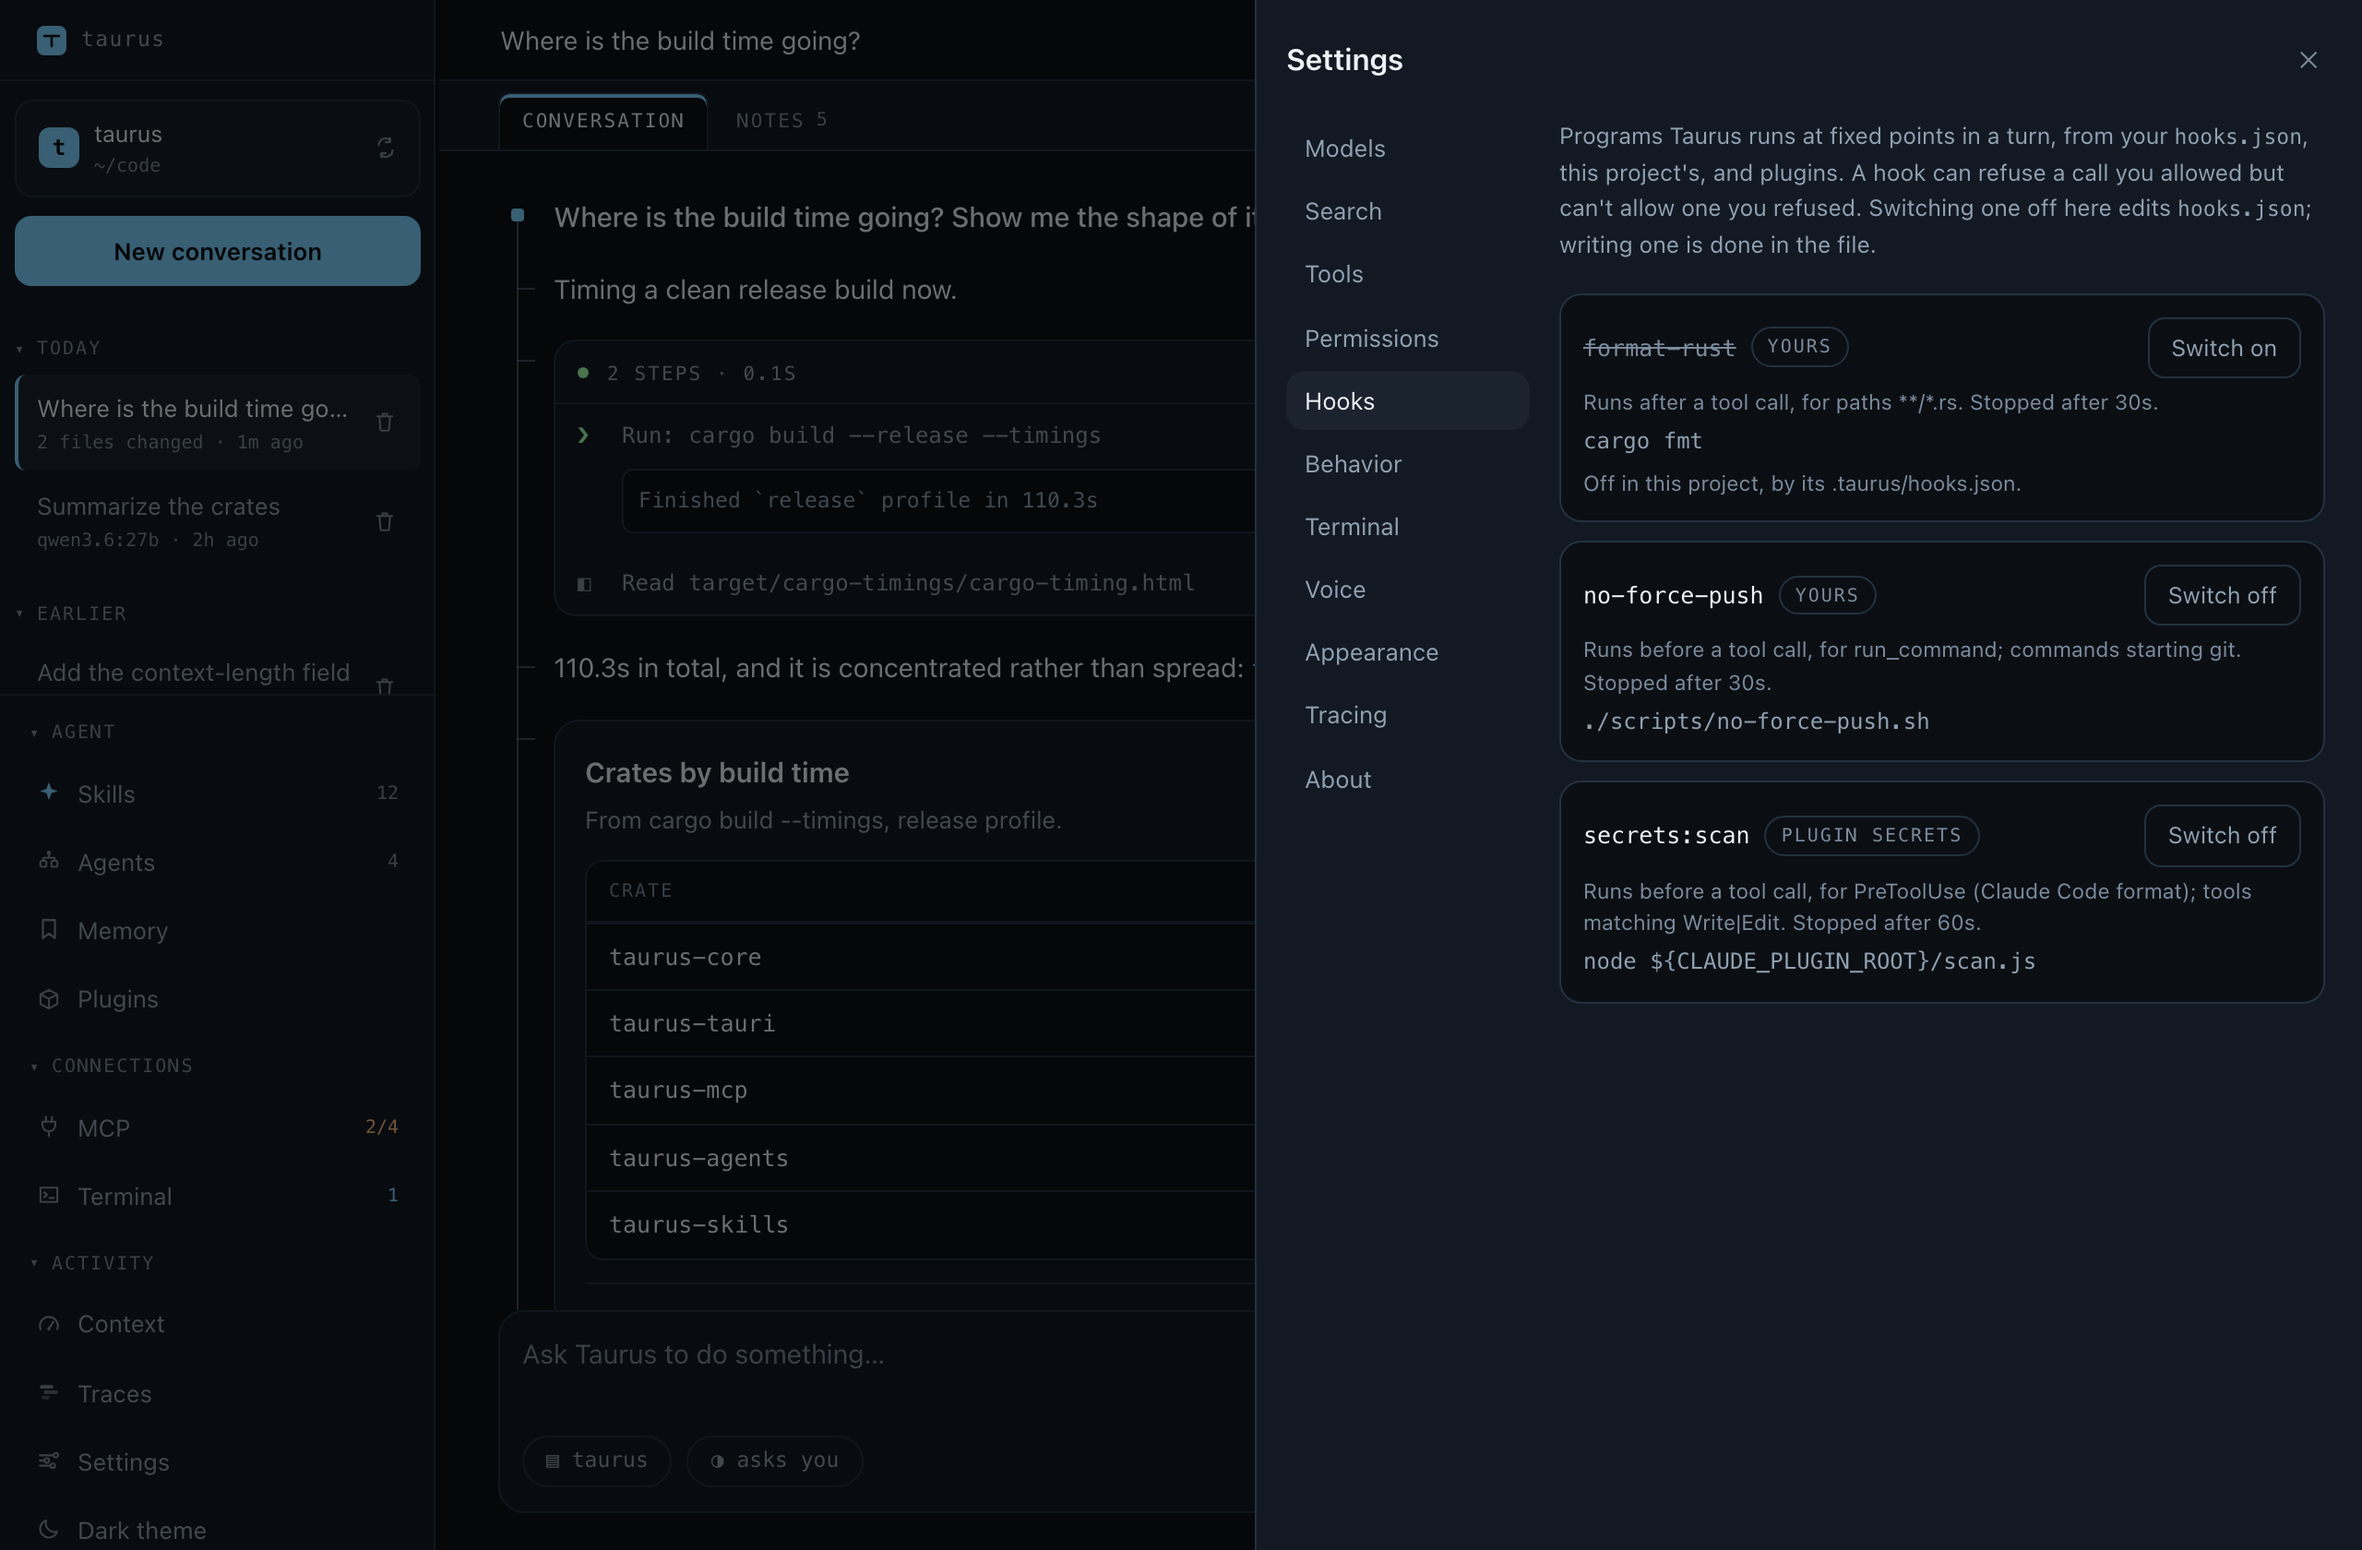
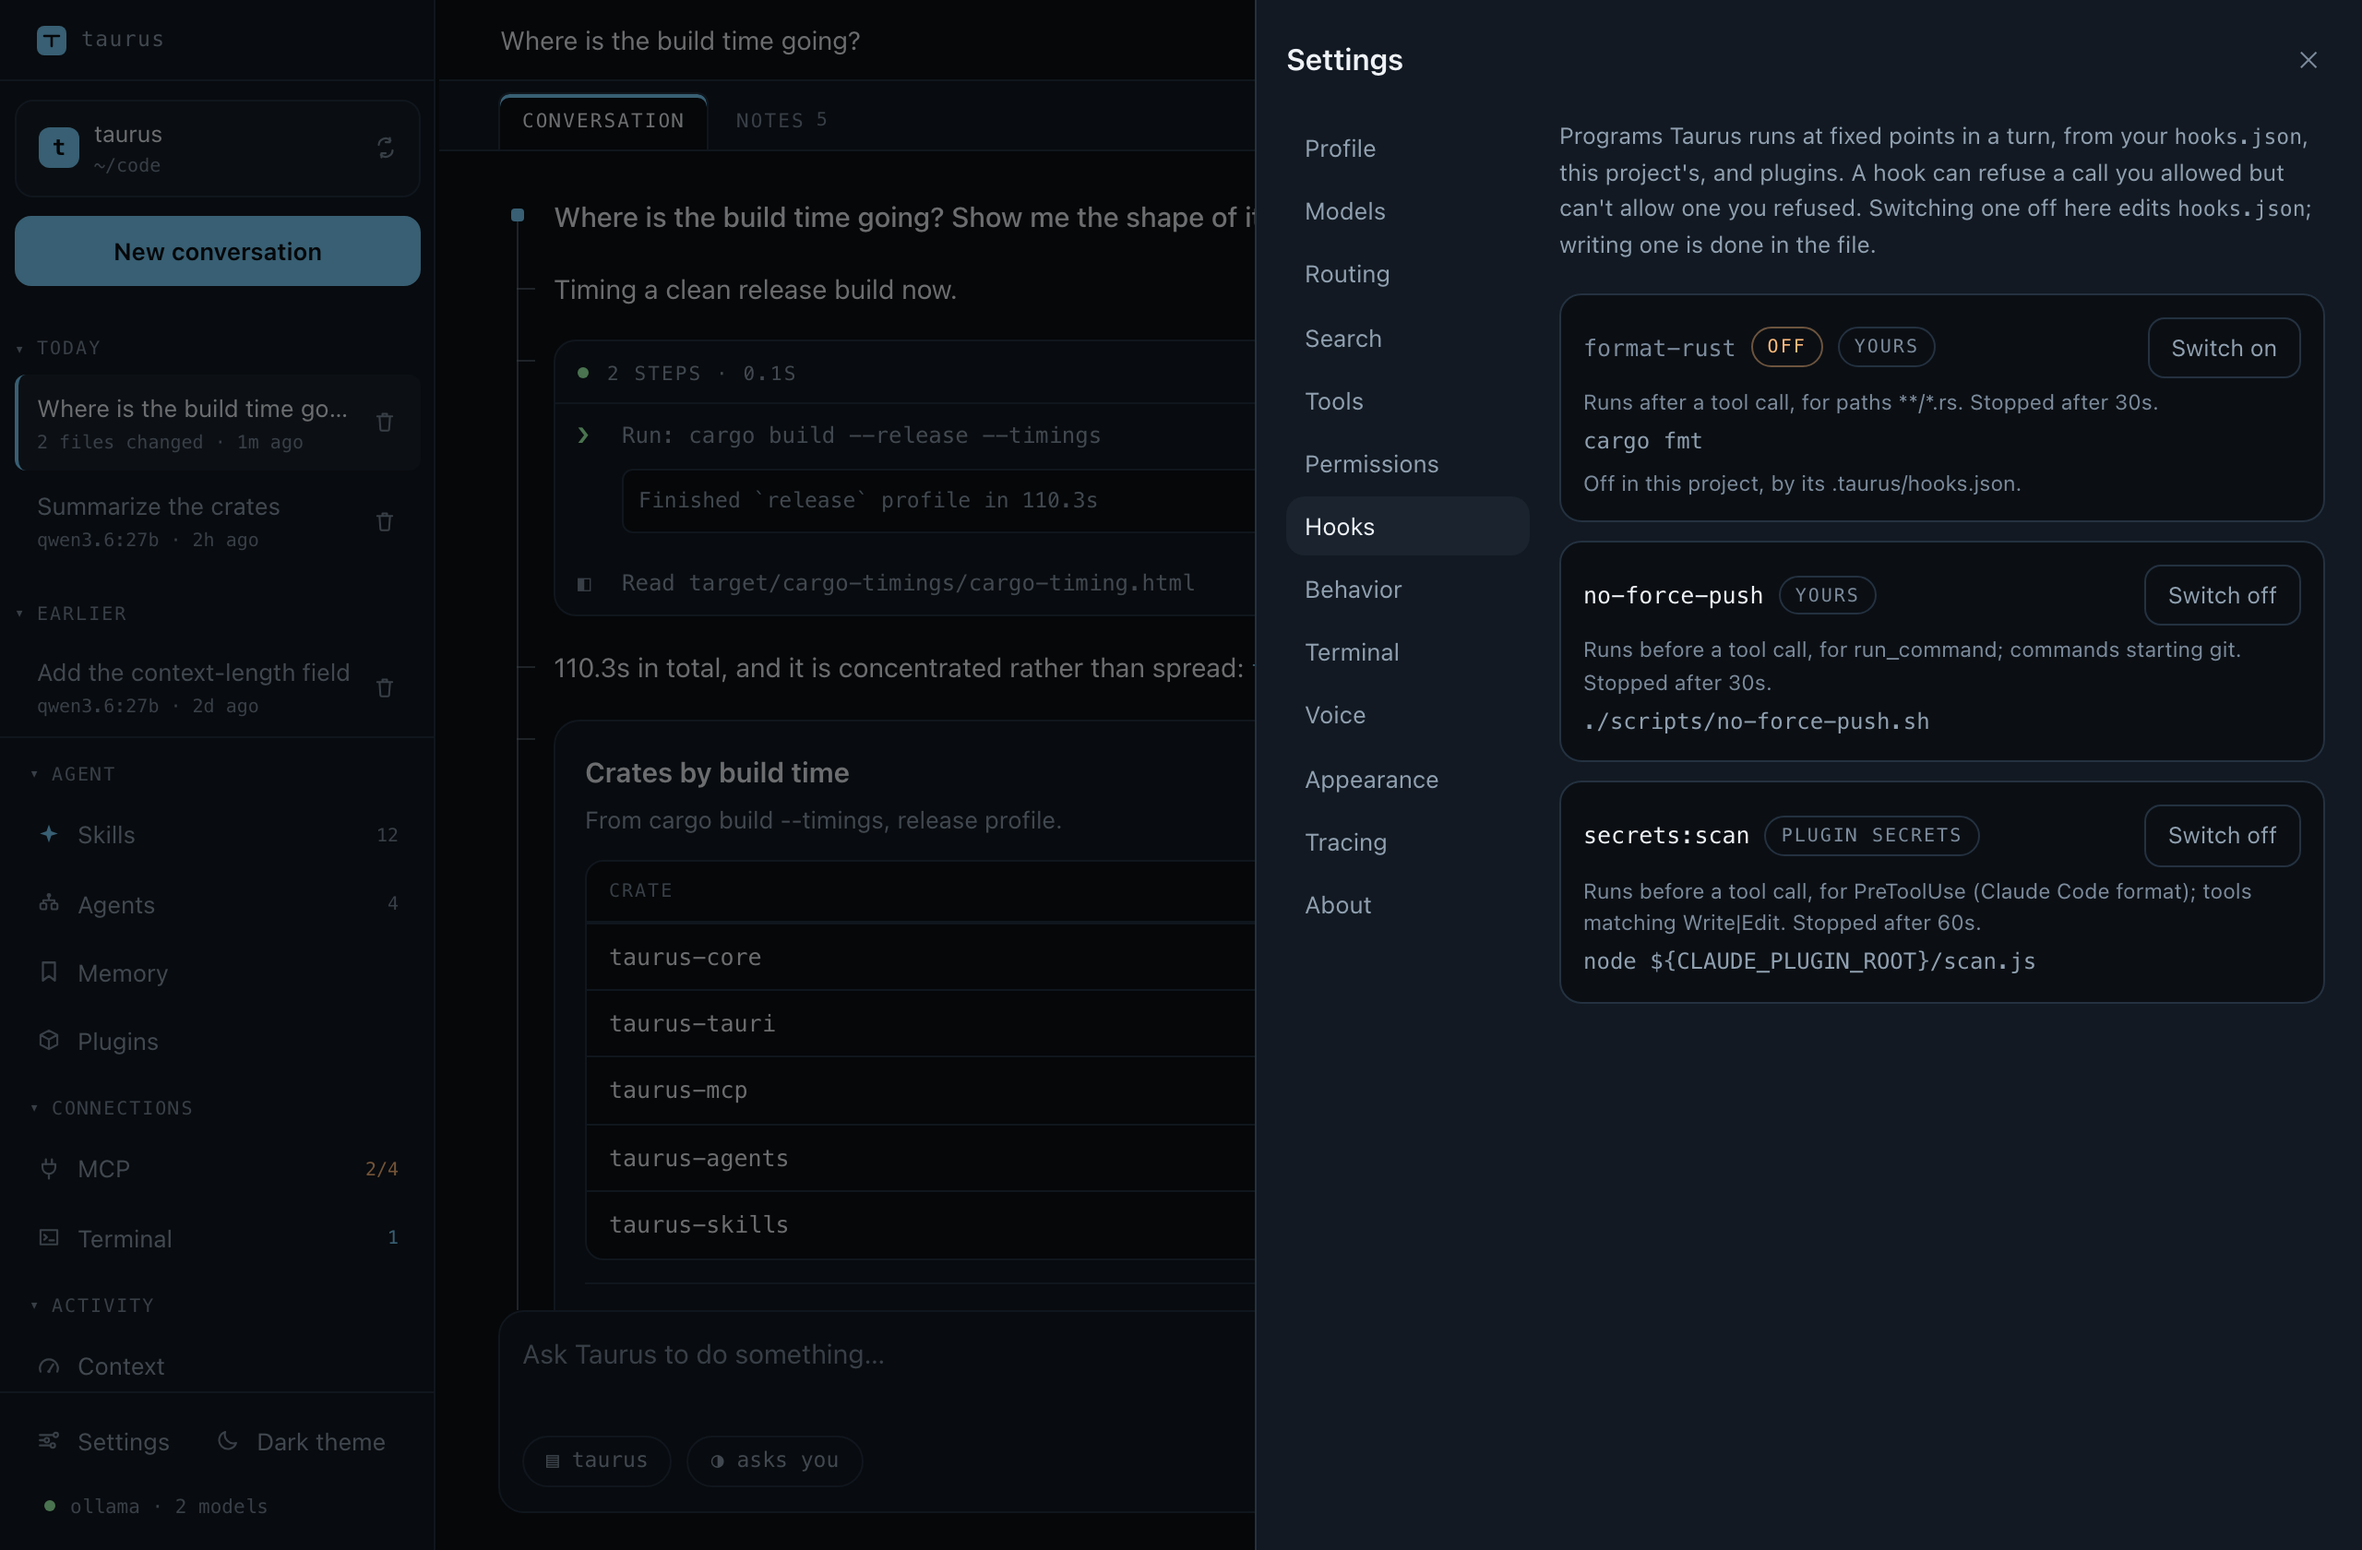
fix: the eight small UI/UX review findings
- Light-theme chart bars keep their tint and gain a full-strength edge
  (5.6:1 on white); filling them to 3:1 left too little between a resting
  bar and the hovered one.
- A connected MCP server says "connected", not only green.
- The Plugins drawer lists what's installed before the add and make forms,
  and reports a refused change under them.
- A skill's compatibility is labeled rather than prefixed with "needs",
  which read "needs Requires Python".
- The editors' plugin save target reads "plugin release", not a bare name.
- The permission dialog drops its preview line when it shows a diff, whose
  head already names the file.
- A switched-off hook is tagged off instead of struck through.
- Settings › Voice files the microphone under "On this machine".

diff --git a/src/components/PluginsDrawer.tsx b/src/components/PluginsDrawer.tsx
@@ -84,31 +84,11 @@ export function PluginsDrawer({
         written.
       </p>
 
-      <AddPlugin
-        disabled={!idle}
-        why={why}
-        adding={working === "add"}
-        onAdd={(from, project, gitRef) =>
-          change("add", () => api.addPlugin(from, project, gitRef))
-        }
-      />
-
-      <NewPlugin
-        disabled={!idle}
-        why={why}
-        making={working === "new"}
-        onMake={(name, description, project) =>
-          change("new", () => api.newPlugin(name, description, project))
-        }
-      />
-
-      {failed && <Problem>{failed}</Problem>}
-
       {plugins === null ? (
         !failed && <p className="drawer-loading">Reading…</p>
       ) : plugins.length === 0 ? (
         <p className="drawer-empty">
-          No plugins installed. Add one from a folder or a git URL above; it
+          No plugins installed. Add one from a folder or a git URL below; it
           goes in <code>~/.taurus/plugins/</code>, or this project's{" "}
           <code>.taurus/plugins/</code>.
         </p>
@@ -202,6 +182,29 @@ export function PluginsDrawer({
           })}
         </ul>
       )}
+
+      {/* Under the list, not above it: what's installed is what you open
+          this drawer to see, and two forms on top pushed it below the fold. */}
+      <AddPlugin
+        disabled={!idle}
+        why={why}
+        adding={working === "add"}
+        onAdd={(from, project, gitRef) =>
+          change("add", () => api.addPlugin(from, project, gitRef))
+        }
+      />
+
+      <NewPlugin
+        disabled={!idle}
+        why={why}
+        making={working === "new"}
+        onMake={(name, description, project) =>
+          change("new", () => api.newPlugin(name, description, project))
+        }
+      />
+
+      {/* Under the forms, beside the button whose change it reports. */}
+      {failed && <Problem>{failed}</Problem>}
     </Drawer>
   );
 }

diff --git a/src/components/PermissionDialog.tsx b/src/components/PermissionDialog.tsx
@@ -102,15 +102,19 @@ export function PermissionDialog({
           </p>
         )}
 
-        <pre className="dialog-detail">
-          {request.effect === "execute" && <span className="prompt">❯ </span>}
-          {request.preview}
-        </pre>
-
         {/* Present only for the two tools that can work out a before and an
-            after. A command line and a URL have none, and the line above is
-            already the whole of what is being approved for those. */}
-        {request.diff && <DiffView diff={request.diff} />}
+            after. A command line and a URL have none, and the preview line is
+            the whole of what is being approved for those. With a diff, its
+            head already names the file and what happens to it, so the
+            preview would only say the path a second time. */}
+        {request.diff ? (
+          <DiffView diff={request.diff} />
+        ) : (
+          <pre className="dialog-detail">
+            {request.effect === "execute" && <span className="prompt">❯ </span>}
+            {request.preview}
+          </pre>
+        )}
 
         {/* The scope sentence describes the standing grant, so it goes away
             with it: in an untrusted workspace there is nowhere to keep one, and

diff --git a/src/components/SkillEditor.mount.test.tsx b/src/components/SkillEditor.mount.test.tsx
@@ -114,11 +114,11 @@ describe("the skill editor", () => {
 
   it("offers a plugin you made, and not one fetched from somewhere", async () => {
     const { host } = await mount();
-    expect(() => button(host, "kit")).not.toThrow();
+    expect(() => button(host, "plugin kit")).not.toThrow();
     expect(() => button(host, "ops")).toThrow();
 
     await fill(host);
-    await press(host, "kit");
+    await press(host, "plugin kit");
     await press(host, "Save skill");
     const call = invoke.mock.calls.find(([cmd]) => cmd === "create_skill");
     expect(call?.[1]).toMatchObject({ plugin: "kit" });
@@ -165,7 +165,7 @@ describe("the skill editor", () => {
       onSubmit: submit,
     });
     expect(host.querySelector(".agent-generate")).toBeNull();
-    expect(() => button(host, "kit")).toThrow();
+    expect(() => button(host, "plugin kit")).toThrow();
     await press(host, "Save skill");
     expect(submit).toHaveBeenCalledWith(
       expect.objectContaining({ name: "cut-release" }),

diff --git a/src/components/SkillsDrawer.tsx b/src/components/SkillsDrawer.tsx
@@ -195,9 +195,11 @@ export function SkillsDrawer({
               <span className="card-sub">{skill.when_to_use}</span>
               {/* The skill's own claim about what it needs to run. Taurus
                   cannot check it, and says so by placing it here rather than
-                  beside `degraded`, which is a fact Taurus established. */}
+                  beside `degraded`, which is a fact Taurus established.
+                  Labeled, not prefixed with a verb: it's free text, and most
+                  skills already start it with "Requires". */}
               {skill.compatibility && (
-                <span className="card-files">needs {skill.compatibility}</span>
+                <span className="card-files">Compatibility: {skill.compatibility}</span>
               )}
               {/* Wrong but survivable — a name in the wrong case, a colon
                   the YAML never quoted. The skill works, so it belongs on

diff --git a/src/styles.css b/src/styles.css
@@ -2561,6 +2561,13 @@ body.resizing-y * {
 .chart-bar.on .chart-fill {
   background: var(--accent);
 }
+/* A third of the light theme's cyan on white is 1.6:1, under the 3:1 a bar
+   needs to be seen as one. Filling it until it clears that leaves too little
+   between a resting bar and the hovered one, so it keeps its tint and gains
+   an edge at full strength (5.6:1) instead. */
+:root[data-theme="light"] .chart-fill {
+  box-shadow: inset 0 0 0 1px var(--accent);
+}
 .chart-labels {
   display: flex;
   gap: 8px;
@@ -3349,6 +3356,11 @@ body.resizing-y * {
 }
 .dialog-detail .prompt {
   color: var(--text-faint);
+}
+/* With a diff the preview line goes (its head names the file), and the gap
+   under the heading goes with it unless the diff takes it over. */
+.dialog-head + .diff {
+  margin-top: 16px;
 }
 .dialog-footnote {
   margin: 0 0 16px;

diff --git a/src/components/settings/HooksTab.tsx b/src/components/settings/HooksTab.tsx
@@ -100,11 +100,14 @@ export function HooksTab() {
                 <div className="card-row">
                   <span
                     className={`card-title font-mono text-12-5 min-w-0 wrap-anywhere${
-                      hook.enabled ? "" : " text-faint line-through"
+                      hook.enabled ? "" : " text-faint"
                     }`}
                   >
                     {hook.hook.name}
                   </span>
+                  {/* Said, not struck through: a line through a name reads as
+                      deleted, and this one is a click from running again. */}
+                  {!hook.enabled && <span className="tag warn">off</span>}
                   <span className={`tag${hook.defined_in.kind === "workspace" ? " project" : ""}`}>
                     {from(hook.defined_in)}
                   </span>

diff --git a/src/components/DiffView.test.tsx b/src/components/DiffView.test.tsx
@@ -163,9 +163,11 @@ describe("permission dialog", () => {
       <PermissionDialog request={request()} onDecide={() => {}} />,
     );
     expect(shown(html)).toContain("let x = 2;");
-    // The one-line preview stays: it names the tool and the size, which the
-    // diff does not.
-    expect(html).toContain("Write src/widget.rs (2140 bytes)");
+    // The diff's head names the file, so the one-line preview, which only
+    // says the path again, gives way to it. The tool is named in the
+    // footnote, and the +/- count says more about the size than bytes did.
+    expect(html).not.toContain("Write src/widget.rs (2140 bytes)");
+    expect(html.match(/src\/widget\.rs/g)?.length).toBe(2); // head + aria-label
   });
 
   it("shows no diff frame for a call that has no before and after", () => {

diff --git a/src/components/PluginsDrawer.mount.test.tsx b/src/components/PluginsDrawer.mount.test.tsx
@@ -95,6 +95,15 @@ describe("the plugins drawer", () => {
     expect(drawer.text()).toContain("at 0123456789ab");
   });
 
+  it("lists what's installed before the forms that add to it", async () => {
+    backend([plugin()]);
+    const drawer = await mount();
+    const list = drawer.host.querySelector(".card-list");
+    const form = drawer.host.querySelector(".plugin-add");
+    expect(list && form).toBeTruthy();
+    expect(list!.compareDocumentPosition(form!) & Node.DOCUMENT_POSITION_FOLLOWING).toBeTruthy();
+  });
+
   it("switches a plugin off in the scope it lives in", async () => {
     backend([plugin({ scope: "workspace" })], [plugin({ scope: "workspace", enabled: false })]);
     const drawer = await mount();

diff --git a/src/components/McpDrawer.tsx b/src/components/McpDrawer.tsx
@@ -373,6 +373,9 @@ function ServerCard({
             </span>
           )}
           {server.disabled && <span className="tag warn">off</span>}
+          {/* The other states have a line of their own below; without this,
+              green was the only thing saying a server is up. */}
+          {state.tone === "ok" && <span className="tag ok">connected</span>}
           {/* Only where a browser flow is possible at all. A stdio server takes
               its credentials from the environment — the MCP authorization
               specification says so explicitly — so a sign-in state there would

diff --git a/src/components/settings/VoiceTab.tsx b/src/components/settings/VoiceTab.tsx
@@ -125,7 +125,7 @@ export function VoiceTab() {
 
       {status && (
         <section className="section">
-          <span className="micro">Files</span>
+          <span className="micro">On this machine</span>
           <dl className="voice-files m-0 grid grid-cols-[88px_1fr] gap-x-3 gap-y-1.5 text-12-5 [&_dt]:text-faint [&_dd]:m-0 [&_dd]:wrap-anywhere [&_dd]:font-mono [&_dd]:text-12 [&_dd]:text-dim">
             <dt>Microphone</dt>
             <dd>{status.microphone ?? "none found"}</dd>

diff --git a/src/components/McpDrawer.mount.test.tsx b/src/components/McpDrawer.mount.test.tsx
@@ -97,6 +97,8 @@ describe("opening the panel", () => {
 
     expect(host.innerHTML).toContain("filesystem");
     expect(host.innerHTML).toContain("dot ok");
+    // In words as well as green.
+    expect(host.querySelector(".tag.ok")?.textContent).toBe("connected");
     expect(host.innerHTML).toContain("Show 11 tools");
     expect(host.querySelector(".tools-toggle")?.getAttribute("aria-expanded")).toBe("false");
     // Where the program actually is, which is the fact a working server makes

diff --git a/src/components/settings/HooksTab.mount.test.tsx b/src/components/settings/HooksTab.mount.test.tsx
@@ -132,6 +132,9 @@ describe("the hooks tab", () => {
     const host = await mount();
     const lint = card(host, "lint:check");
     expect(lint.textContent).toContain("plugin lint ships it switched off");
+    // Tagged off, not struck through, which reads as deleted.
+    expect(lint.querySelector(".tag.warn")?.textContent).toBe("off");
+    expect(lint.innerHTML).not.toContain("line-through");
 
     await press(lint, "Switch on");
     expect(invoke).toHaveBeenCalledWith("set_hook", {
